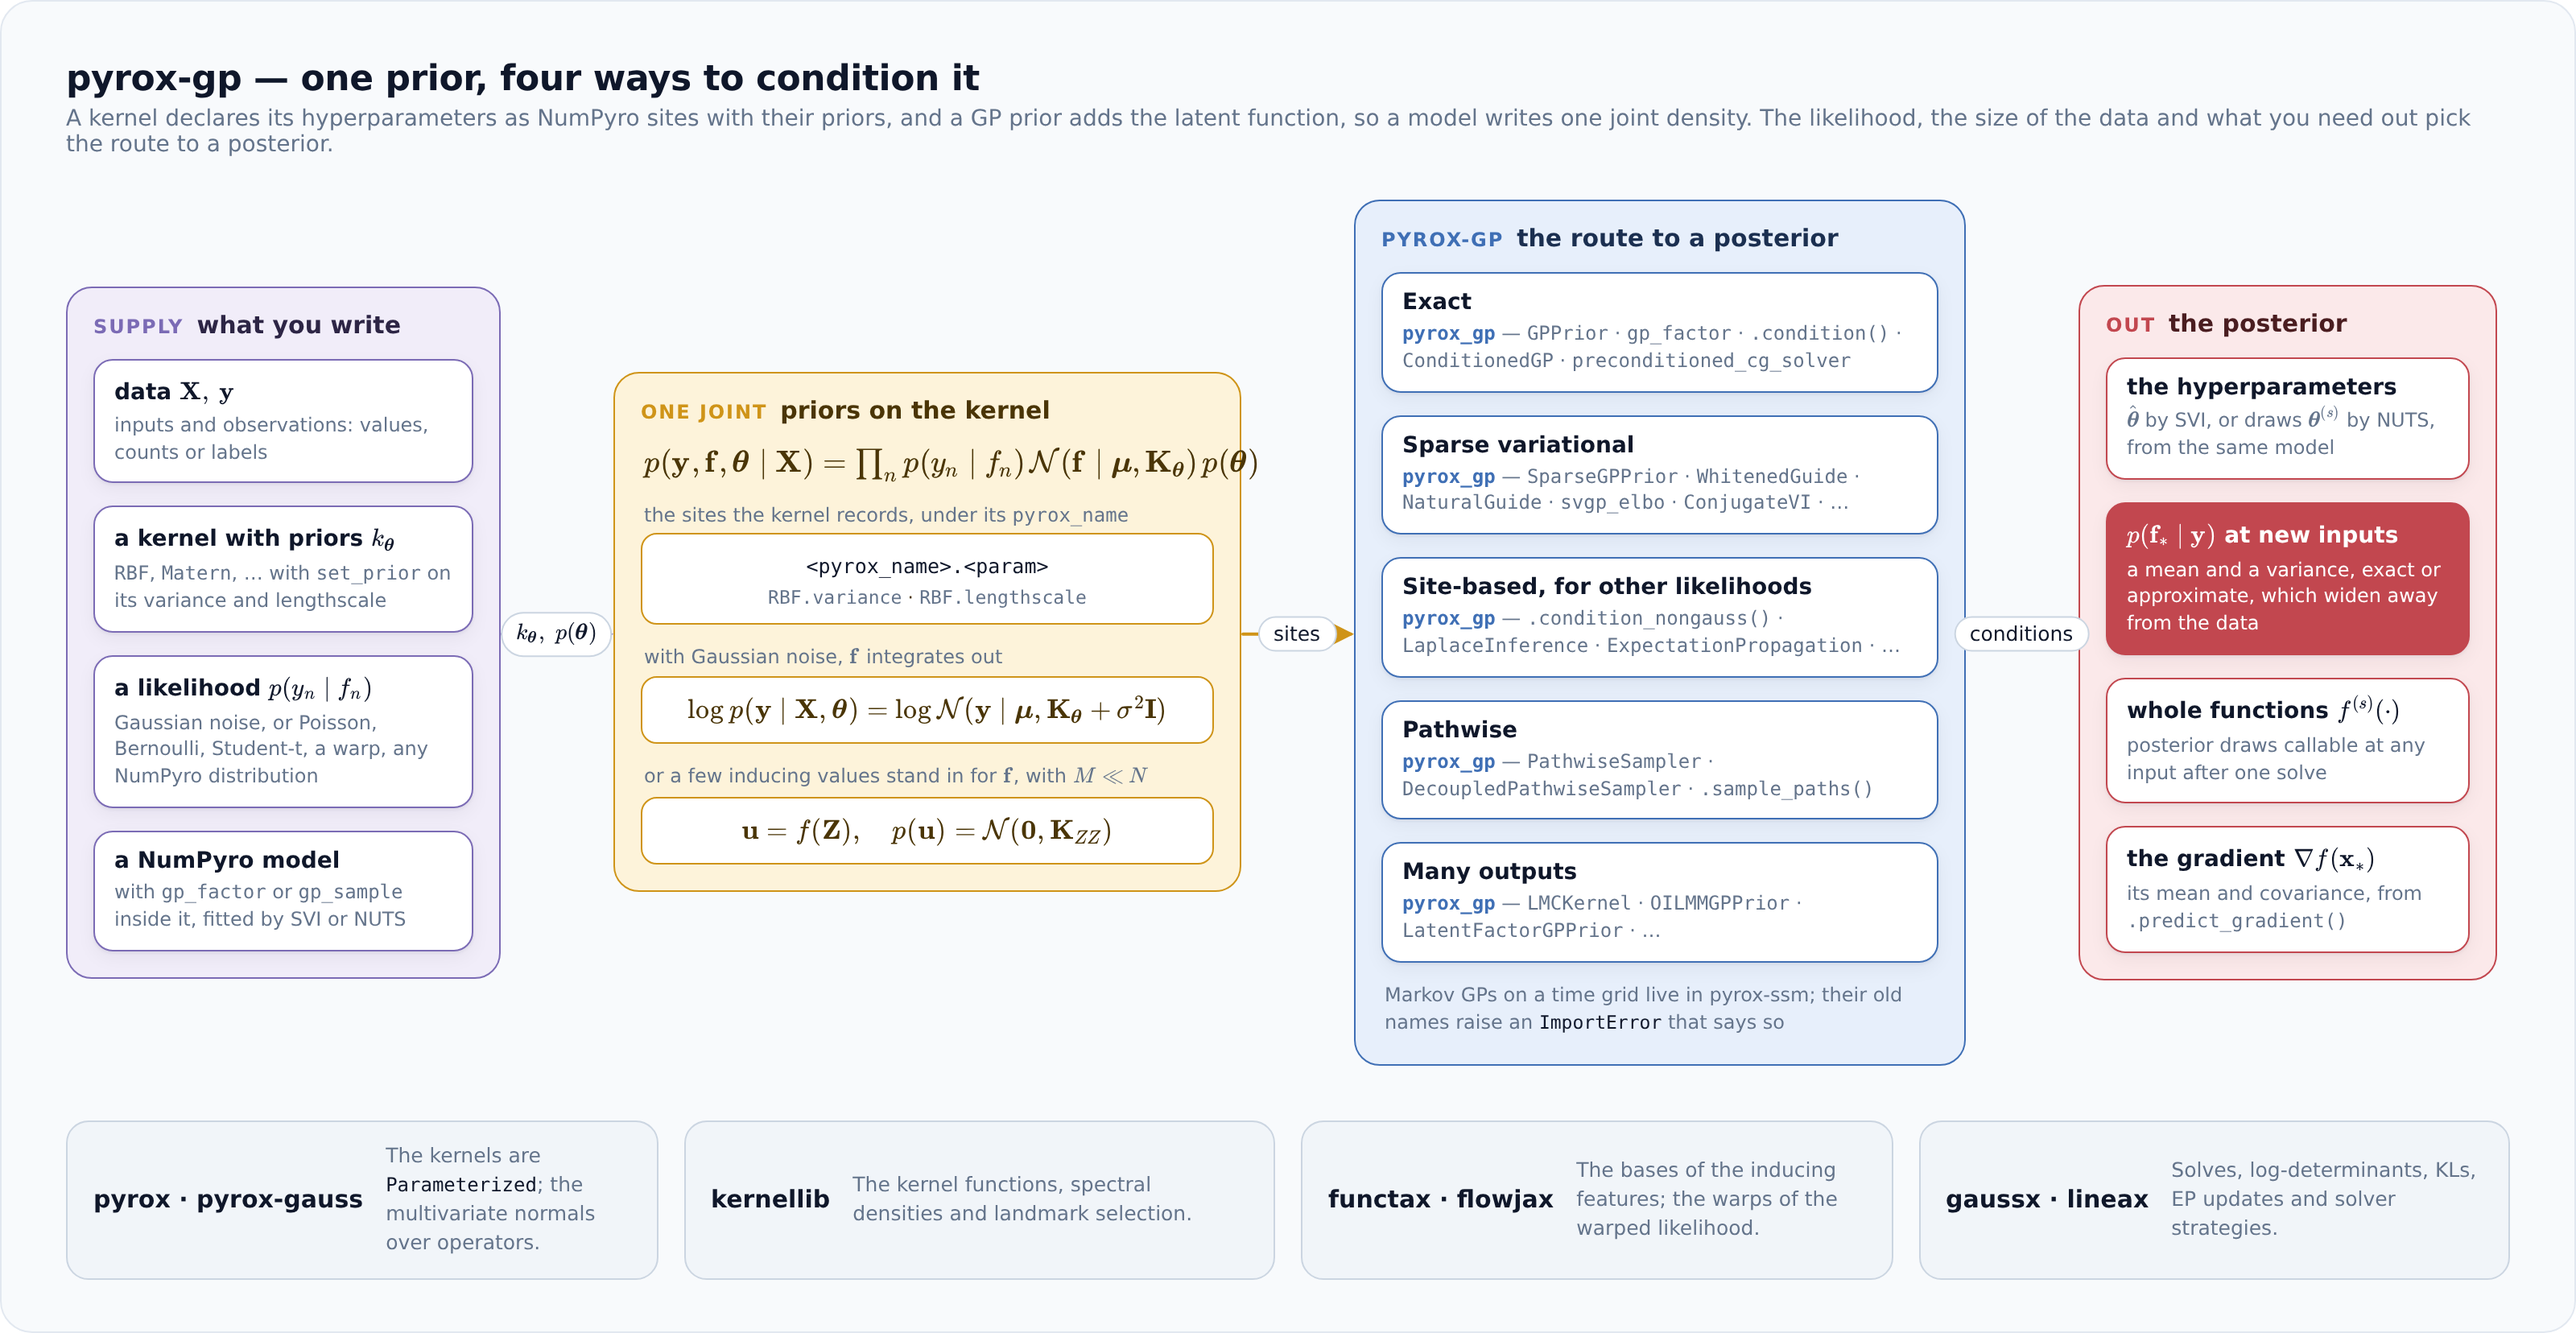
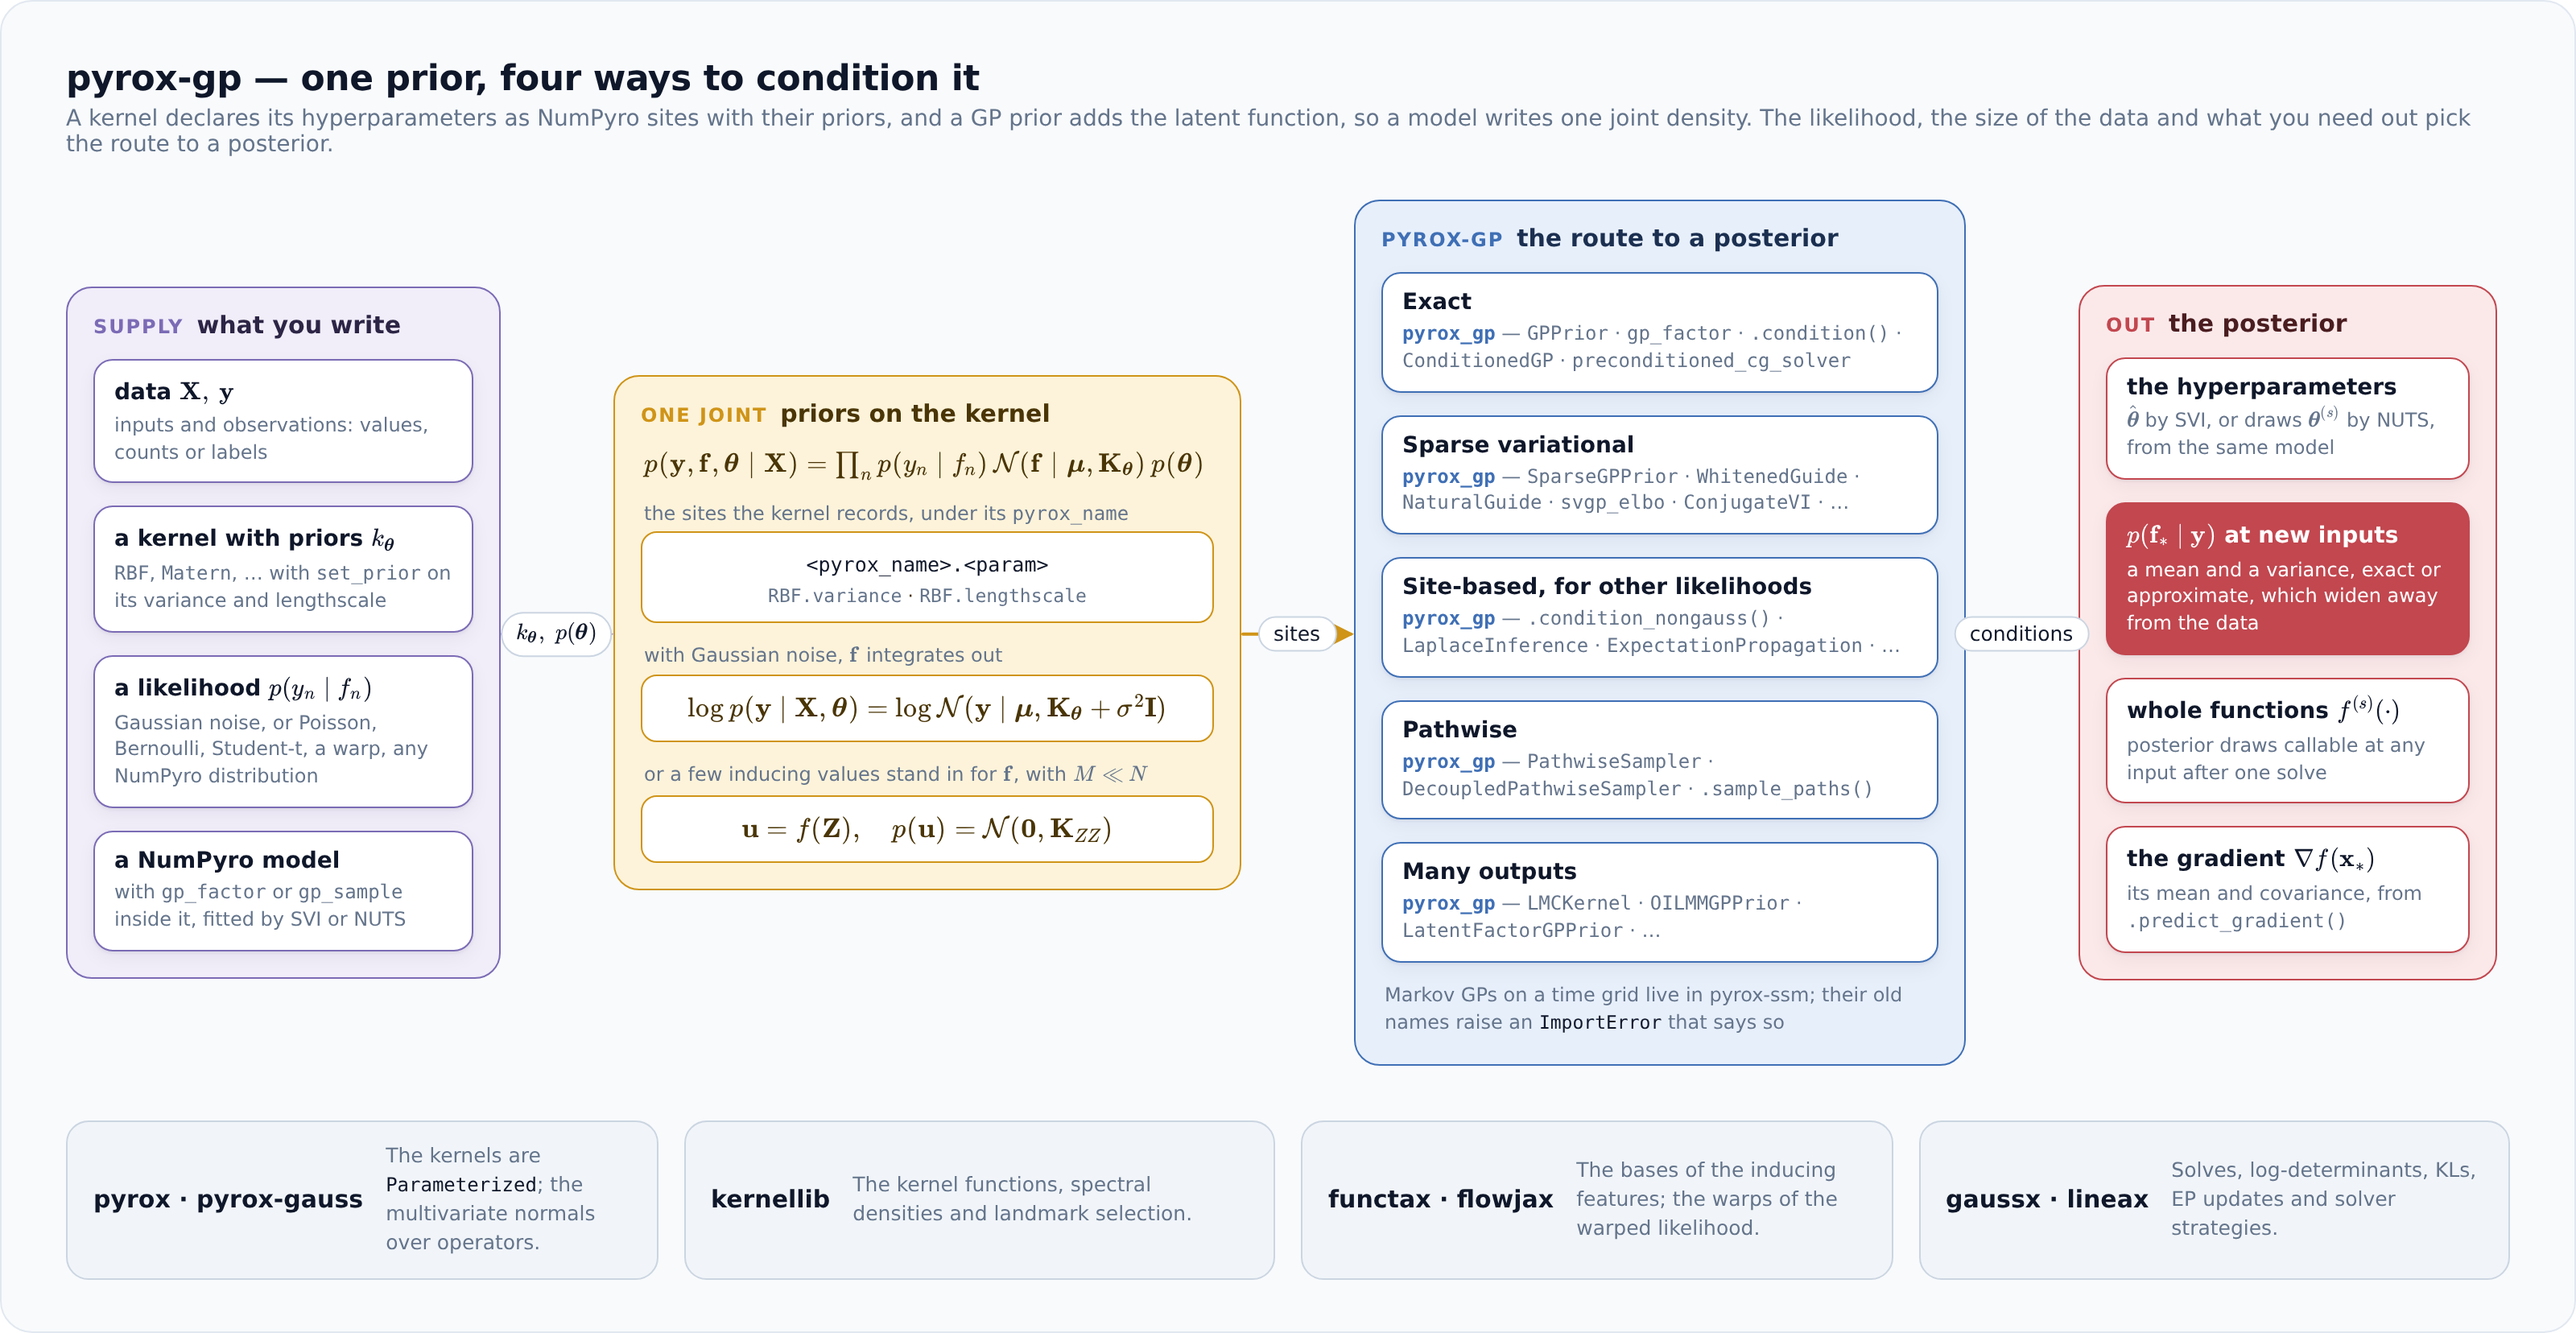
docs(images): fit pyrox-gp's joint density inside its lane

Changed region(s): [[0.25, 0.2772, 0.5, 0.6775]]

diff --git a/docs/images/libraries/pyrox_gp_overview/pyrox_gp_overview.html b/docs/images/libraries/pyrox_gp_overview/pyrox_gp_overview.html
@@ -8,7 +8,7 @@
 <style>
   #diagram { width: 1600px; }
   #diagram .katex { font-size: 1.12em; }
-  #diagram .joint .katex { font-size: 1.18em; }
+  #diagram .joint .katex { font-size: 1.04em; }
   #diagram .term .eq .katex { font-size: 1.05em; }
   .wire-label .chip { font-family: var(--sans); font-size: 12.5px; padding: 4px 9px; }
   .grid {
